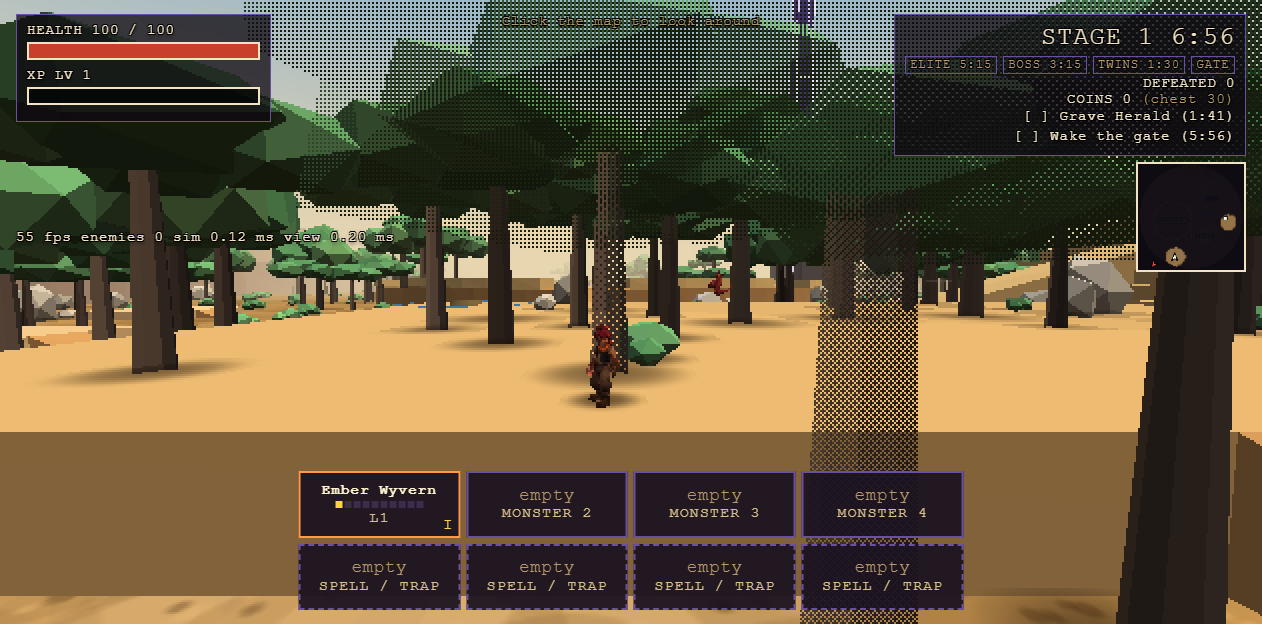
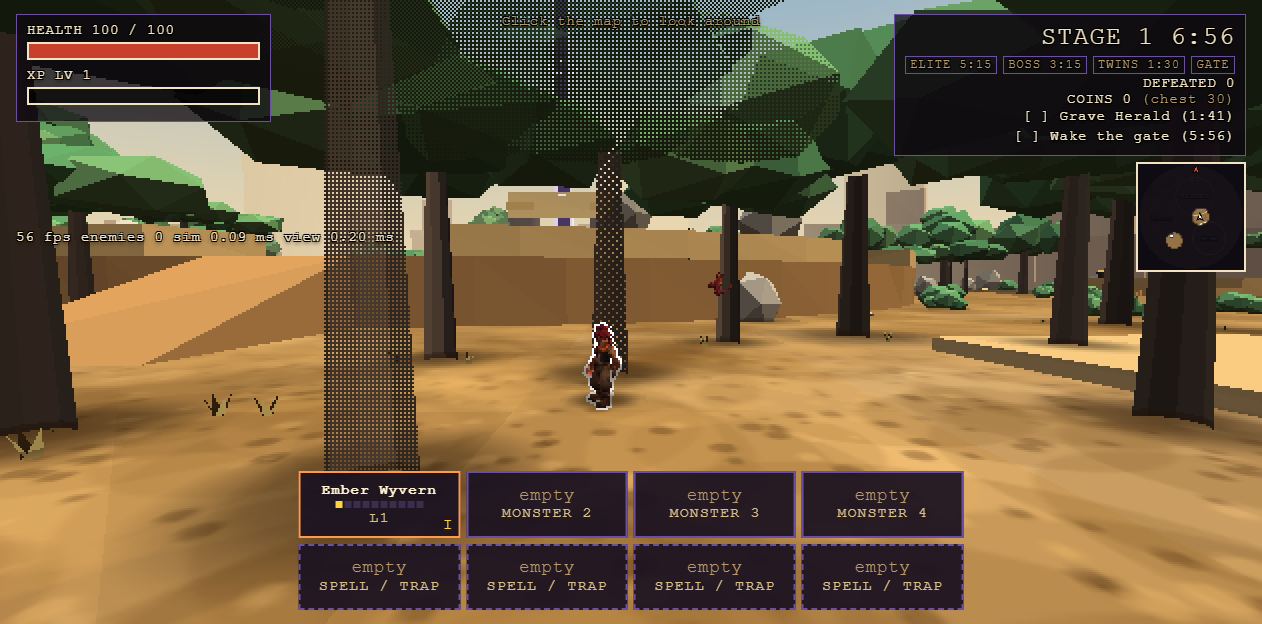
Spectacle step 4 finish: sideways swing, rise cap, pitch spring, no wall entry on smoothed pull-in
The arm yaws round the duelist up to 0.5 rad toward the freer side (side kept 1 s, eased, player camera input wins). The rise never makes the view steeper than 60 degrees. The part of the pitch the blockers add goes through a critically damped spring limited to 30 degrees a second. The smoothed pull-in never carries the eye into a wall. Height limiter 5 m/s. Pylon test stops level-up panels and waits for the camera rotation to settle too.

Claude-Session: https://claude.ai/code/session_01G4m5sPDpcSeznt8KShqd9B

diff --git a/duelsummoner/src/view/camera.js b/duelsummoner/src/view/camera.js
@@ -1,4 +1,4 @@
-// Chase camera: 7 m behind, 3 m above, over the right shoulder. Yaw is free, pitch is limited,
+// Chase camera: 7 m behind, 3 m above, over the right shoulder. Yaw is free, pitch is limited,
 // it pulls in when terrain is behind it and never goes under the floor.
 import { CFG } from '../data/config.js';
 import { heightAt } from '../sim/terrain.js';
@@ -29,16 +29,16 @@ export class ChaseCamera {
     this.spd += ((1 + 0.25 * clamp((Math.min(mv, 60) - 9) / 9, 0, 1)) - this.spd) * Math.min(1, dt * 1.5);
     const a0 = BASE + clamp(pitch, C.pitchMin, C.pitchMax), aFloor = Math.max(a0, 0), lookUp = (aFloor - a0) * 8;      // the arm never goes below the pivot: looking up tilts the look target instead, so the camera cannot sink under a ledge
     const sc = this.zoom * this.spd * this.fovK;
-    if (!this.ready) { this.py = p.y; this.sx = p.x; this.sz = p.z; this.ready = true; this.swing = 0; this.rise = 0; this.pb = false; this.pbT = 0; }
+    if (!this.ready) { this.py = p.y; this.sx = p.x; this.sz = p.z; this.ready = true; this.swing = 0; this.ys = 0; this.ysSide = 0; this.ysT = 0; this.rise = 0; this.pb = false; this.pbT = 0; }
     // gentle horizontal follow lag (about 55 ms); a jump of more than 3 m is a teleport and snaps
     if (!this.lag || Math.abs(p.x - this.sx) > 3 || Math.abs(p.z - this.sz) > 3) { this.sx = p.x; this.sz = p.z; this.ready0 = false; this.rise = 0; this.py = p.y; }       // a teleport resyncs the height limiter too
     else { const k = Math.min(1, dt * 18); this.sx += (p.x - this.sx) * k; this.sz += (p.z - this.sz) * k; }
     this.py += (p.y - this.py) * Math.min(1, dt * 14);           // smooth the vertical follow over steps
     const px = this.sx + rx * C.shoulder, py = this.py + C.headY, pz = this.sz + rz * C.shoulder;
-    const wanted = ang => { const back = Math.cos(ang) * ARM * sc, up = Math.sin(ang) * ARM * sc; return [px - fx * back, py + up, pz - fz * back, Math.hypot(back, up)]; };
+    const wanted = (ang, ys) => { const back = Math.cos(ang) * ARM * sc, up = Math.sin(ang) * ARM * sc, cs = Math.cos(ys), sn = Math.sin(ys), dx = fx * cs - fz * sn, dz = fx * sn + fz * cs; return [px - dx * back, py + up, pz - dz * back, Math.hypot(back, up)]; };       // ys: the arm is yawed round the duelist by this much (the sideways swing)
     // march from the pivot toward a wanted position; report the first solid sample, how many samples are solid and whether the end itself is
-    const march = ang => {
-      const [tx, ty, tz, len] = wanted(ang); let first = -1, solidN = 0, endSolid = false;
+    const march = (ang, ys = this.ys) => {
+      const [tx, ty, tz, len] = wanted(ang, ys); let first = -1, solidN = 0, endSolid = false;
       for (let i = 1; i <= 40; i++) { const t = i / 40, sx = px + (tx - px) * t, sy = py + (ty - py) * t, sz = pz + (tz - pz) * t; if (solidAt(sx, sy, sz) || hitProp(this.cols, sx, sy, sz)) { solidN++; if (first < 0) first = i; if (i === 40) endSolid = true; } }
       return { free: first < 0 ? 1 : (first - 1) / 40, first, solidN, endSolid, len, tx, ty, tz };
     };
@@ -56,11 +56,22 @@ export class ChaseCamera {
       if (this.pb && !m.endSolid) free = 1;
     } else { this.pb = false; this.pbT = Math.min(this.pbT, 0); }
     // otherwise pull in, but swing the arm up first (up to 0.5 rad, at most 1 rad a second, eased) so the camera looks over the blocker before it closes in under 4 m
-    let swingTo = 0;
+    // player camera input always wins: while the yaw is being turned, the swing eases back to nothing
+    const turning = this.lastYaw !== undefined && Math.abs(yaw - this.lastYaw) / Math.max(dt, 1e-3) > 0.6; this.lastYaw = yaw; this.ysT -= dt;
+    let ysTo = this.ys, swingTo = 0;
+    if (free < 1) {
+      // sideways swing first: yaw the arm round the duelist (up to 0.5 rad) toward the freer side, keeping the side it chose for 1 s so it never flips back and forth
+      const lenAt = ys => { const mm = march(aFloor + this.swing, ys); return mm.first < 0 ? 99 : mm.free * mm.len; };
+      if (turning) ysTo = 0; else if (lenAt(0) >= 4.0) ysTo = 0; else {
+        if (this.ysT <= 0) { const l = lenAt(0.5), r = lenAt(-0.5); this.ysSide = Math.abs(l - r) < 0.5 && this.ysSide ? this.ysSide : (l >= r ? 1 : -1); this.ysT = 1.0; }
+        ysTo = 0.5 * this.ysSide; for (let k = 1; k <= 5; k++) { const ys = 0.1 * k * this.ysSide; if (lenAt(ys) >= 4.0) { ysTo = ys; break; } }
+      }
+    } else if (this.ys !== 0) { if (turning) ysTo = 0; else { ysTo = 0; const m0 = march(aFloor + this.swing, 0); if (m0.first >= 0) ysTo = this.ys; } }       // it eases back once the blocker is clear
+    { const d = ysTo - this.ys, rate = turning ? 2.0 : (Math.abs(ysTo) > Math.abs(this.ys) ? 1.0 : 0.5); this.ys += Math.sign(d) * Math.min(Math.abs(d), dt * rate); if (Math.abs(this.ys) < 1e-4) this.ys = 0; }
     if (free < 1) {
       swingTo = 0.5; for (let sw = 0; sw <= 0.5001; sw += 0.1) { const mm = march(aFloor + sw); if (mm.first < 0 || (mm.free * mm.len) >= 4.0) { swingTo = sw; break; } }
       const dsw = swingTo - this.swing; this.swing += Math.sign(dsw) * Math.min(Math.abs(dsw), dt * (dsw > 0 ? 1.0 : 0.5)) ; this.swing *= 1;
-      ang = aFloor + this.swing; m = march(ang); free = m.free;
+      ang = aFloor + this.swing; m = march(ang, this.ys); free = m.free;
       if (m.first >= 0 && this.pb && !m.endSolid) free = 1;
     } else { this.swing = Math.max(0, this.swing - dt * 0.5); }
     const armLen = m.len; if (free < 1) free = Math.max(C.minDist / armLen, free - C.margin / armLen);   // keep clear of the wall only when one is in the way
@@ -69,17 +80,16 @@ export class ChaseCamera {
       if (this.lastTx === undefined || solidAt(cx0, cy0, cz0) || hitProp(this.cols, cx0, cy0, cz0)) this.t = free; else this.t += (free - this.t) * Math.min(1, dt / 0.06);
     } else this.t = Math.min(free, this.t + dt * 2.5);               // ease back out over about 0.4 s
     this.lastTx = m.tx; this.lastTy = m.ty; this.lastTz = m.tz;
+    { const q = this.t, qx = px + (m.tx - px) * q, qy = py + (m.ty - py) * q, qz = pz + (m.tz - pz) * q; if (q > free && (solidAt(qx, qy, qz) || hitProp(this.cols, qx, qy, qz))) this.t = free; }       // the smoothed pull-in never carries the eye into a wall or the ground: then it goes straight to the free point
     const t = this.t < free ? this.t : Math.max(free, Math.min(this.t, free + (this.t - free))), tx = m.tx, ty = m.ty, tz = m.tz;
     let x = px + (tx - px) * t, y = py + (ty - py) * t, z = pz + (tz - pz) * t;
     // pinned against something tall at the minimum distance: rise over it, looking down at the duelist. The rise is smoothed to at most 6 m a second (0.1 m a frame), never a 1 m jump
     let need = 0; for (; need < 9 && (solidAt(x, y + need, z) || hitProp(this.cols, x, y + need, z)); need += 0.25);
-    if (need > 2) {       // too tall to rise over: sit at the nearest clear spot further back instead (behind the blocker, which the porthole opens)
-      for (let tt = Math.max(t, 0.05) + 0.04; tt <= 1.0001; tt += 0.04) { const qx = px + (tx - px) * tt, qy = py + (ty - py) * tt, qz = pz + (tz - pz) * tt; if (!solidAt(qx, qy, qz) && !hitProp(this.cols, qx, qy, qz)) { x = qx; y = qy; z = qz; need = 0; break; } }
-    }
-    const dr = need - this.rise; this.rise += Math.sign(dr) * Math.min(Math.abs(dr), dt * 6); y += this.rise;
+    { const h = Math.hypot(x - px, z - pz), room = py + 1.73 * h - y; if (need > room) need = Math.max(0, room); }       // the rise never makes the view steeper than about 60 degrees: past that the camera stays where it is and the porthole and the silhouette show the duelist
+    const dr = need - this.rise; this.rise += Math.sign(dr) * Math.min(Math.abs(dr), dt * 5); y += this.rise;
     if (this.cy === undefined || this.cy !== this.cy || !this.ready0) { this.cy = y; this.ready0 = true; }
-    else { const lim = dt * 6; this.cy += Math.max(-lim, Math.min(lim, y - this.cy)); }       // the eye's height changes by at most 6 m a second (0.1 m a frame), whatever pulled it
-    y = this.cy; const floor = Math.max(heightAt(x, z) + C.floorGap, C.floorGap); if (y < floor) { y = floor; this.cy = y; }       // never under the ground, even if that is faster
+    else { const lim = dt * 5; this.cy += Math.max(-lim, Math.min(lim, y - this.cy)); }       // the eye's height changes by at most 6 m a second (0.1 m a frame), whatever pulled it
+    y = this.cy; const floor = Math.max(heightAt(x, z) + C.floorGap, C.floorGap); const D0 = this.dbg || (this.dbg = {}); D0.floorHit = y < floor; D0.need = need; D0.t = this.t; D0.free = free; D0.ys = this.ys; D0.pb = this.pb; D0.swing = this.swing; D0.rise = this.rise; D0.floor = floor; D0.yb = y; if (y < floor) { y = floor; this.cy = y; }       // never under the ground, even if that is faster
     this.camera.position.set(x, y, z);
     let ly = py + 0.2 + lookUp; this.camera.lookAt(px + fx * 6, ly, pz + fz * 6);        // aim past the duelist so the shoulder offset reads
     // safe area: the duelist's feet stay above the hotbar (the bottom quarter of the screen) however steeply the camera looks down or however close the spring pulls it in
@@ -90,6 +100,14 @@ export class ChaseCamera {
       if (cz > -0.1) break; const ndc = cy / (-cz * th);
       if (ndc >= -0.32) break;
       ly -= (-0.32 - ndc) * dist * th; this.camera.lookAt(px + fx * 6, ly, pz + fz * 6);
+    }
+    {   // pitch smoothing: what the player asked for passes straight through; the part the blockers add (the pitch of the actual eye minus the pitch of the unblocked eye) goes through a
+        // critically damped spring (omega 16) with its rate limited to 50 degrees a second, so a pull-in never snaps the view
+      const v = this._dv || (this._dv = this.camera.position.clone()); this.camera.getWorldDirection(v); const now = Math.asin(Math.max(-1, Math.min(1, v.y)));
+      const [ix, iy, iz] = wanted(aFloor, 0), ideal = Math.atan2(py + 0.2 + lookUp - iy, Math.hypot(px + fx * 6 - ix, pz + fz * 6 - iz)), c = now - ideal;
+      if (this.cS === undefined || !this.ready0) { this.cS = c; this.cV = 0; }
+      else { const w = 16, acc = w * w * (c - this.cS) - 2 * w * this.cV; this.cV += acc * dt; let step = this.cV * dt; const lim = 0.52 * dt; step = Math.max(-lim, Math.min(lim, step)); this.cS += step; if (step !== this.cV * dt) this.cV = step / dt; }
+      const dp = ideal + this.cS - now; if (Math.abs(dp) > 1e-5) this.camera.rotateX(dp);
     }
     this.pos.x = x; this.pos.y = y; this.pos.z = z;
   }

diff --git a/duelsummoner/src/main.js b/duelsummoner/src/main.js
@@ -483,9 +483,10 @@ requestAnimationFrame(frame);
 
 // Test hooks: read and drive the run without touching its rules.
 // debug: the duelist's pixels, alone (everything else hidden) and in the full scene (everything depth-tested and dithered as drawn), as flat id colour in an off-screen target at the buffer size; silhouette is 0 until the stencil silhouette exists
+function pxRT(w, h) { if (!pxRT.rt || pxRT.w !== w || pxRT.h !== h) { if (pxRT.rt) pxRT.rt.dispose(); pxRT.rt = new T.WebGLRenderTarget(w, h, { depthBuffer: true, stencilBuffer: true }); pxRT.buf = new Uint8Array(w * h * 4); pxRT.w = w; pxRT.h = h; } return pxRT.rt; }       // one target reused by every call (a new one each call ran the GPU out of memory over 200 calls)
 function duelistPixels() {
   const rig = actors.rig; if (!rig) return null;
-  const size = renderer.getDrawingBufferSize(new T.Vector2()), w = size.x, h = size.y, rt = new T.WebGLRenderTarget(w, h, { depthBuffer: true, stencilBuffer: true }), buf = new Uint8Array(w * h * 4);
+  const size = renderer.getDrawingBufferSize(new T.Vector2()), w = size.x, h = size.y, rt = pxRT(w, h), buf = pxRT.buf;
   const idMat = new T.MeshBasicMaterial({ color: 0xff00ff, fog: false }); idMat.skinning = true; idMat.stencilWrite = true; idMat.stencilFunc = T.AlwaysStencilFunc; idMat.stencilRef = 1; idMat.stencilZPass = T.ReplaceStencilOp;
   const saved = [], extras = []; rig.group.traverse(o => { if (o.userData.extra) extras.push([o, o.visible]); else if (o.isMesh) { saved.push([o, o.material]); o.material = idMat; } });
   const setExtras = on => { for (const [o] of extras) o.visible = on && o.userData.extra === 'sil'; };
@@ -496,7 +497,7 @@ function duelistPixels() {
   const keep = new Set(); for (let o = rig.group; o; o = o.parent) keep.add(o);
   const hid = []; scene.children.forEach(c => { if (!keep.has(c) && c.visible) { hid.push(c); c.visible = false; } }); if (rig.group.parent && rig.group.parent !== scene) rig.group.parent.children.forEach(c => { if (!keep.has(c) && c.visible) { hid.push(c); c.visible = false; } });
   const alone = count();
-  for (const c of hid) c.visible = true; for (const [o, m] of saved) o.material = m; for (const [o, v] of extras) o.visible = v; rt.dispose(); idMat.dispose();
+  for (const c of hid) c.visible = true; for (const [o, m] of saved) o.material = m; for (const [o, v] of extras) o.visible = v; idMat.dispose();
   return { alone, visible, silhouette };
 }
 window.__ds = {
